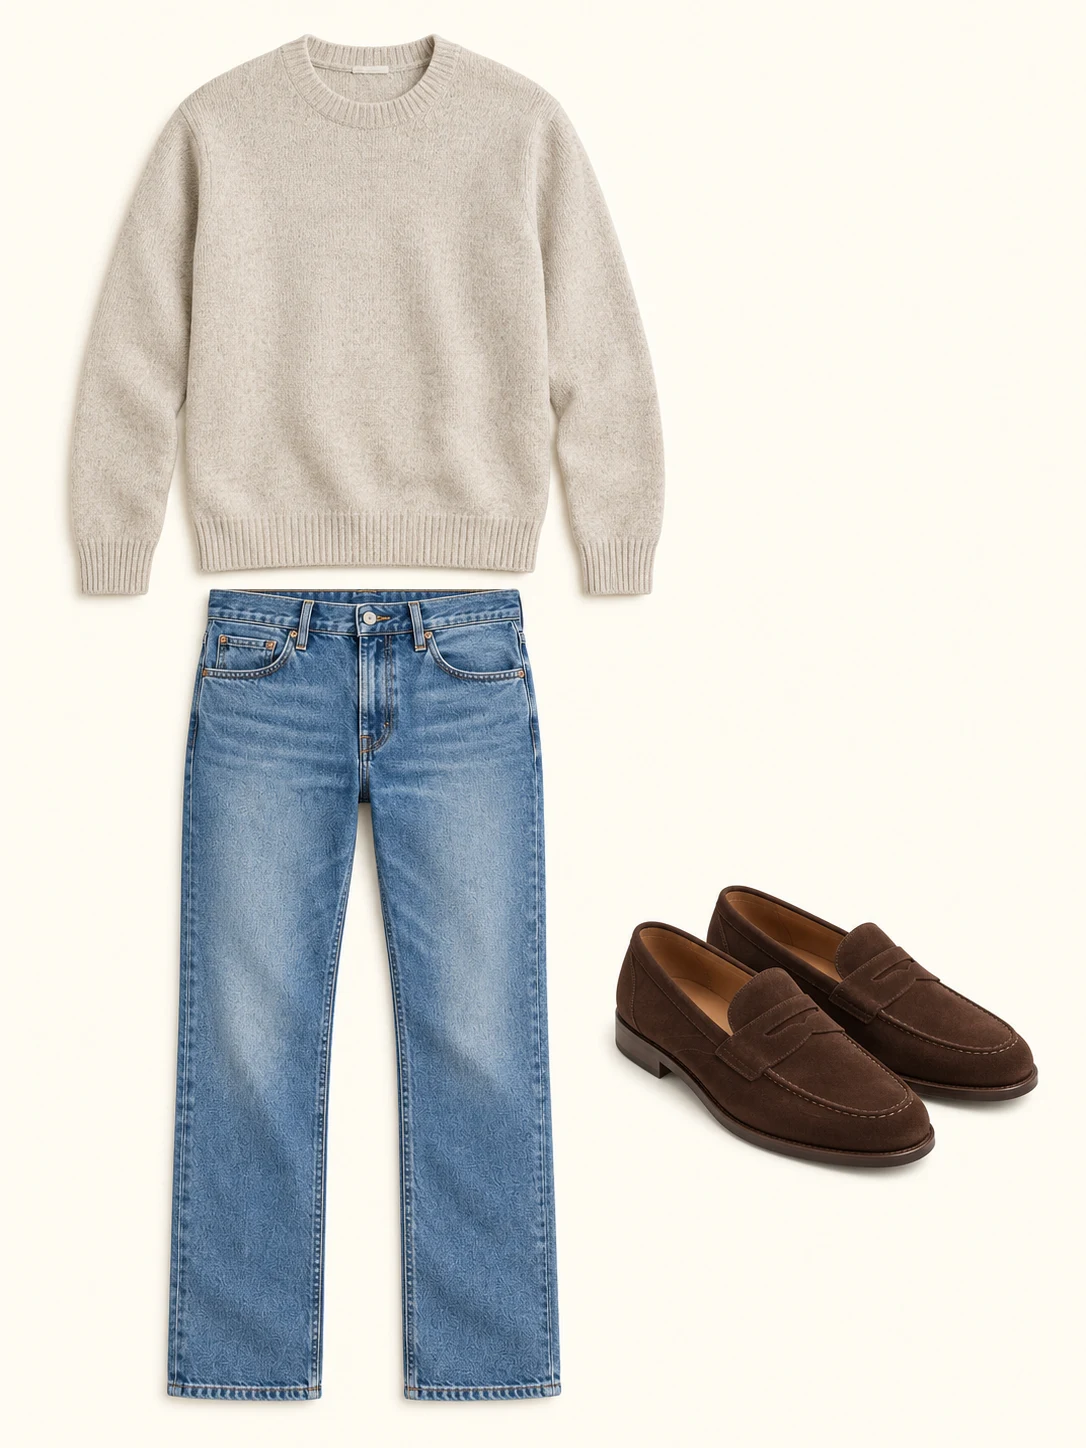
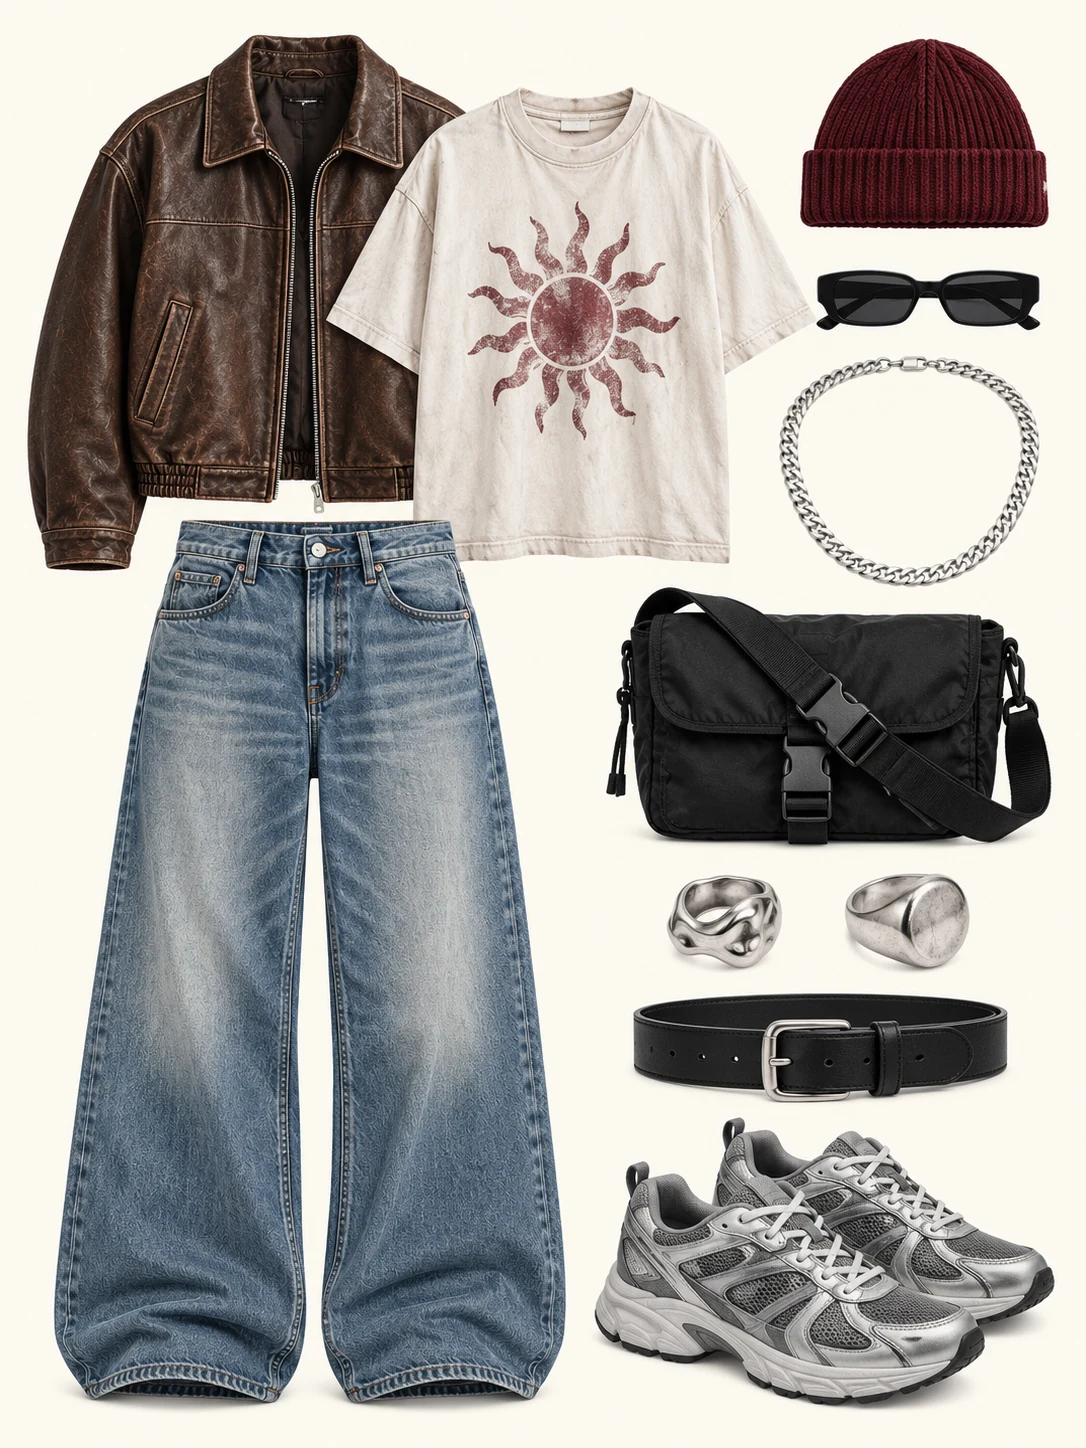
Restyle outfit cards with layered streetwear and accessories

diff --git a/src/components/home/IterationDemo.jsx b/src/components/home/IterationDemo.jsx
@@ -1,6 +1,6 @@
 import { useEffect, useRef } from 'react'
 import jeansLook from '../../assets/fit-gen-demo/mens-jeans.webp'
-import trousersLook from '../../assets/fit-gen-demo/mens-trousers.webp'
+import cargosLook from '../../assets/fit-gen-demo/mens-cargos.webp'
 import jotting from '../../assets/mascot/jotting.webp'
 import aww from '../../assets/mascot/aww.webp'
 import SmsBubble from './SmsBubble'
@@ -41,19 +41,19 @@ export default function IterationDemo({ title, description }) {
           <li className="product-demo-message">
             <SmsBubble avatar={jotting}>
               <span className="sr-only">oro: </span>
-              <img src={jeansLook} alt="men’s outfit with an oatmeal knit, blue jeans, and brown suede loafers" loading="lazy" decoding="async" width="1086" height="1448" />
+              <img src={jeansLook} alt="men’s streetwear look with a brown leather jacket, graphic tee, baggy jeans, silver sneakers, burgundy beanie, crossbody bag, sunglasses, belt, and silver jewelry" loading="lazy" decoding="async" width="1086" height="1448" />
             </SmsBubble>
           </li>
           <li className="product-demo-message product-demo-message--user">
-            <SmsBubble tone="dark-purple" side="right"><span className="sr-only">you: </span>can we swap the jeans for something smarter?</SmsBubble>
+            <SmsBubble tone="dark-purple" side="right"><span className="sr-only">you: </span>can we try cargos instead?</SmsBubble>
           </li>
           <li className="product-demo-message">
-            <SmsBubble><span className="sr-only">oro: </span>try charcoal trousers. keep the knit and loafers.</SmsBubble>
+            <SmsBubble><span className="sr-only">oro: </span>olive cargos. so good with the brown leather.</SmsBubble>
           </li>
           <li className="product-demo-message">
             <SmsBubble avatar={aww}>
               <span className="sr-only">oro: </span>
-              <img src={trousersLook} alt="the same men’s outfit, with charcoal tailored trousers replacing the jeans" loading="lazy" decoding="async" width="1086" height="1448" />
+              <img src={cargosLook} alt="the same layered streetwear look and accessories, with olive cargos replacing the jeans" loading="lazy" decoding="async" width="1086" height="1448" />
             </SmsBubble>
           </li>
           <li className="product-demo-message product-demo-message--user">
